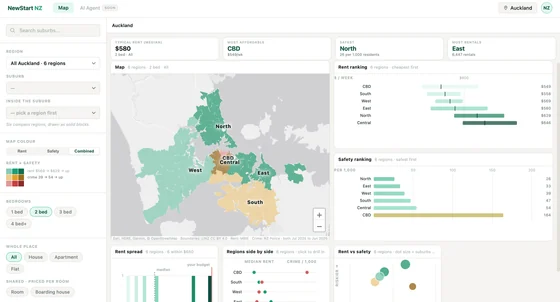
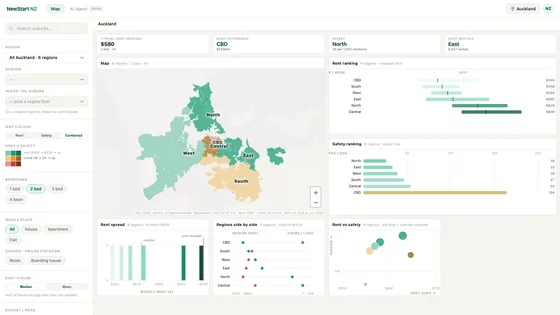
Refresh SkillPath and NewStart details

diff --git a/script.js b/script.js
@@ -71,28 +71,28 @@ if (!prefersReducedMotion.matches && "IntersectionObserver" in window) {
 const projectDetails = {
   newstart: {
     title: "NewStart NZ",
-    lead: "An interactive rental analytics platform for exploring housing costs, rental supply, and neighbourhood safety across New Zealand.",
-    problem: "Newcomers choosing where to live in New Zealand need to compare rental cost, housing availability, and safety, but the relevant government data is fragmented across different geographic systems.",
-    engineering: "A Python data pipeline reconciles 548 MBIE rent areas and 412 Police areas against 172 LINZ suburbs. The standalone dashboard turns the result into a map, rankings, distributions, regional comparisons, and a rent-versus-safety view.",
-    evidence: ["Rent and crime aligned to July 2025–June 2026", "Map, rankings, distributions, and regional comparisons", "Source areas and missing data remain visible"],
+    lead: "An interactive rental analytics platform for comparing housing costs, rental supply, and neighbourhood safety across New Zealand.",
+    problem: "People choosing where to live need to compare rent, availability, and safety, but the relevant government datasets use different boundaries and cannot be compared directly.",
+    engineering: "A reproducible Python pipeline collects MBIE rent data, normalises NZ Police exports, and reconciles both sources against 172 LINZ suburbs. The zero-build Leaflet dashboard supports regional drill-down, rankings, distributions, source-area inspection, and touch-friendly controls.",
+    evidence: ["Rent and crime aligned to the same 12-month period", "Regional drill-down, rankings, distributions, and comparisons", "Source areas and missing data remain visible", "Responsive layout and touch interactions"],
     stack: "Python · MBIE Market Rent API v2 · NZ Police data · LINZ · Leaflet · HTML",
     visuals: [{
-      src: "assets/newstart-nz-preview.webp?v=wide-dashboard",
-      srcset: "assets/newstart-nz-preview.webp?v=wide-dashboard 560w, assets/newstart-nz-preview@2x.webp?v=wide-dashboard 1120w",
+      src: "assets/newstart-nz-preview.webp?v=oct-2026",
+      srcset: "assets/newstart-nz-preview.webp?v=oct-2026 560w, assets/newstart-nz-preview@2x.webp?v=oct-2026 1120w",
       sizes: "(max-width: 680px) calc(100vw - 72px), 700px",
       alt: "NewStart NZ dashboard showing Auckland filters, map, rent and safety rankings, and comparison charts",
       caption: "Rental and safety dashboard",
       width: 1120,
-      height: 603,
+      height: 630,
     }],
   },
   skillpath: {
     title: "SkillPath",
-    lead: "A full-stack learning platform that gives beginners and aspiring IT professionals a clear path from first concepts to guided practice.",
+    lead: "A full-stack learning platform that helps beginners and people entering IT move from broad learning areas into guided lessons, practice, and assessment.",
     problem: "People starting in IT often do not know which skills to learn first, how different topics connect, or what to study next. Existing resources are scattered and frequently assume prior knowledge.",
-    engineering: "The React client connects to an ASP.NET Core API backed by EF Core and SQLite. A shared curriculum and progress model supports multiple learning paths, the API grades answers, and each module remembers where the learner stopped.",
-    evidence: ["Structured learning paths and ordered modules", "Lessons, knowledge checks, and practice modes", "Persistent progress and per-module resume position", "Role-protected content administration"],
-    stack: "React 19 · TypeScript 6 · ASP.NET Core (.NET 10) · EF Core 10 · SQLite",
+    engineering: "The React client consumes published curriculum and question APIs from ASP.NET Core, with EF Core and PostgreSQL for persistence. Cookie-based accounts keep learner progress in sync, the API grades eight interaction formats, and the role-protected admin area manages lessons, modules, questions, publishing states, and revision history.",
+    evidence: ["Structured learning paths with persistent progress", "Server-graded practice and assessment engine", "Optional AI explanations for reviewed questions", "Role-protected publishing workflow and content history"],
+    stack: "React 19 · TypeScript 6 · ASP.NET Core (.NET 10) · EF Core 10 · PostgreSQL 17",
     visuals: [{
       src: "assets/skillpath-dashboard-wide.webp?v=learning-areas",
       srcset: "assets/skillpath-dashboard-wide.webp?v=learning-areas 560w, assets/skillpath-dashboard-wide@2x.webp?v=learning-areas 1120w",

diff --git a/index.html b/index.html
@@ -18,7 +18,7 @@
     <link rel="canonical" href="https://pds1123.github.io/" />
     <link rel="icon" href="assets/favicon.svg" type="image/svg+xml" />
     <link rel="stylesheet" href="styles.css?v=project-gallery-1" />
-    <script src="script.js?v=project-gallery-2" defer></script>
+    <script src="script.js?v=project-refresh-1" defer></script>
     <title>Disi Pan | Full-stack Developer in Auckland</title>
   </head>
 
@@ -78,8 +78,8 @@
               <div class="project-summary">
                 <h3>NewStart NZ</h3>
                 <p>
-                  A New Zealand rental analytics platform combining official rent, safety,
-                  boundary, and population data to support clearer housing decisions.
+                  A New Zealand rental analytics platform that brings rent, safety,
+                  population, and boundary data into one interactive dashboard.
                 </p>
                 <div class="project-actions">
                   <button class="button button-primary" type="button" data-project-open="newstart">View details</button>
@@ -97,12 +97,12 @@
                   <p>NewStart NZ</p>
                 </div>
                 <img
-                  src="assets/newstart-nz-preview.webp?v=wide-dashboard"
-                  srcset="assets/newstart-nz-preview.webp?v=wide-dashboard 560w, assets/newstart-nz-preview@2x.webp?v=wide-dashboard 1120w"
+                  src="assets/newstart-nz-preview.webp?v=oct-2026"
+                  srcset="assets/newstart-nz-preview.webp?v=oct-2026 560w, assets/newstart-nz-preview@2x.webp?v=oct-2026 1120w"
                   sizes="(max-width: 760px) calc(100vw - 48px), 1040px"
                   alt="NewStart NZ dashboard showing Auckland filters, map, rent and safety rankings, and comparison charts"
                   width="1120"
-                  height="603"
+                  height="630"
                 />
               </figure>
             </div>
